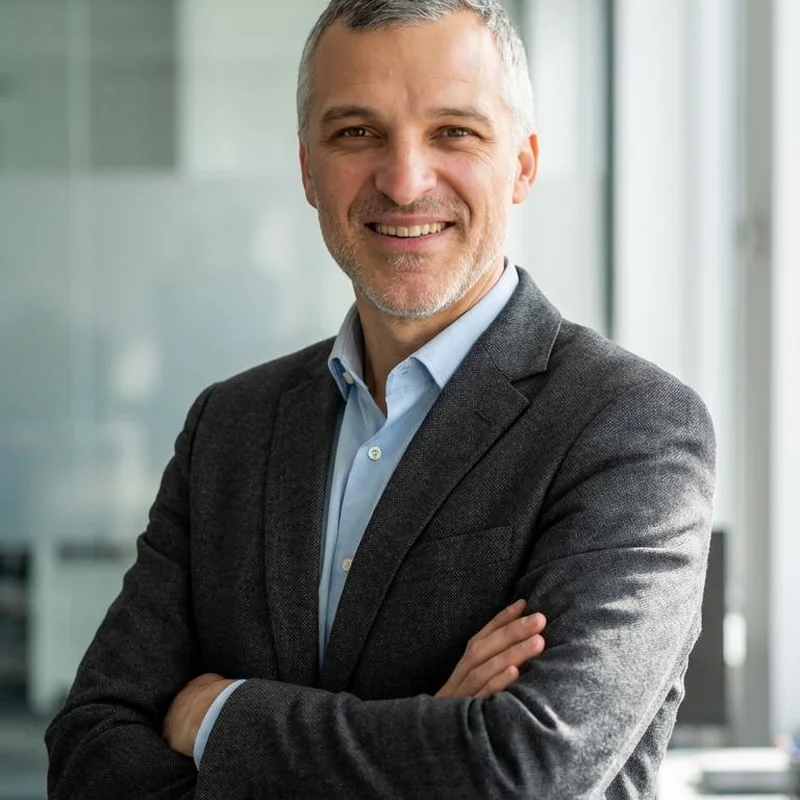
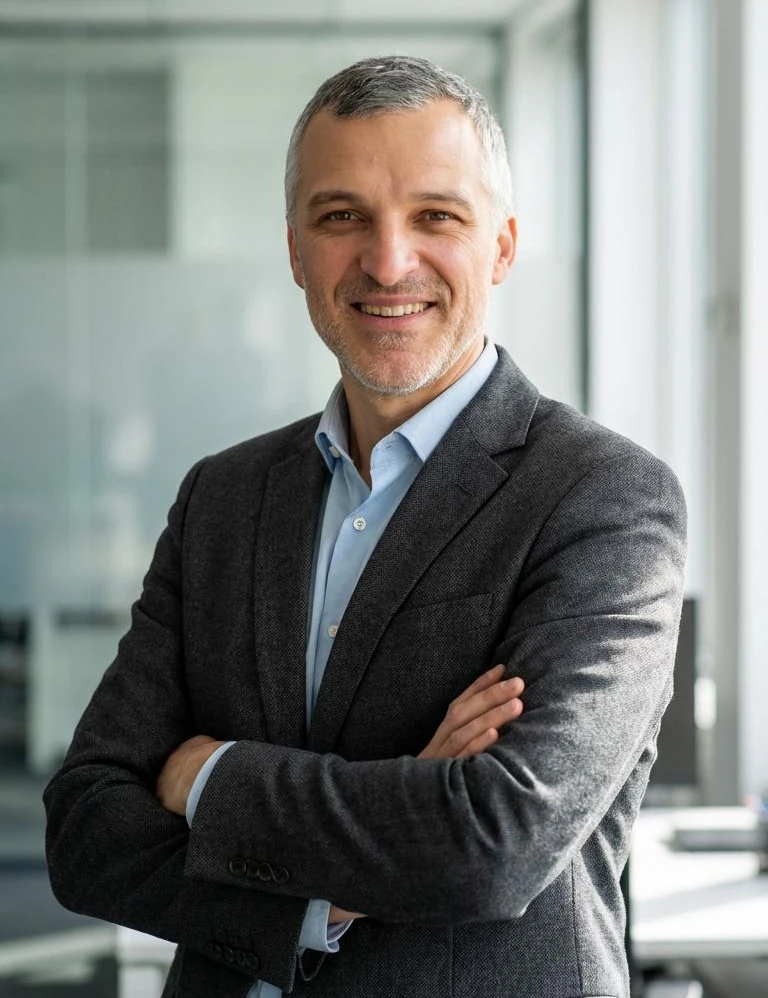
Update owner portrait and bio — Lucian Bercea

diff --git a/app/despre-noi/page.tsx b/app/despre-noi/page.tsx
@@ -168,14 +168,20 @@ export default function DespreNoiPage() {
               <div className="font-mono text-xs uppercase tracking-wider text-text-muted mb-2">
                 Proprietar · Inginer
               </div>
-              <h3 className="text-h3 text-text-primary mb-3">Numele proprietarului</h3>
+              <h3 className="text-h3 text-text-primary mb-3">Lucian Bercea</h3>
               <p className="text-text-secondary leading-relaxed mb-5">
-                12+ ani experiență directă în prelucrare metal CNC. Implicat personal în fiecare
-                consultare tehnică — semnalează problemele de design, recomandă optimizări,
-                validează toleranțele înainte de tăiere.
+                Peste 12 ani de experiență în conducerea directă a producției industriale de
+                prelucrare tablă de precizie — inox, oțel, aluminiu, cupru și aliaje speciale.
+                A gestionat întreg lanțul: de la prima discuție cu clientul și validarea designului,
+                ofertare și prototipuri, până la implementarea fluxului de producție cu 50+ oameni
+                și 20+ tipuri de echipamente, inclusiv acoperiri metalice, galvanizare, vopsire,
+                sudură, asamblare și control strict de calitate.
               </p>
-              <p className="text-xs text-text-muted font-mono">
-                Imagine și biografie de actualizat — placeholder.
+              <p className="text-text-secondary leading-relaxed">
+                Pasionat de inginerie în toate formele ei — proiectare, execuție, flux tehnologic,
+                optimizare proces. Implicat personal în fiecare consultare tehnică: identifică
+                problemele de design înainte de tăiere, recomandă soluții mai eficiente și
+                validează toleranțele pentru serii mici, mijlocii sau repere repetitive.
               </p>
             </div>
           </div>